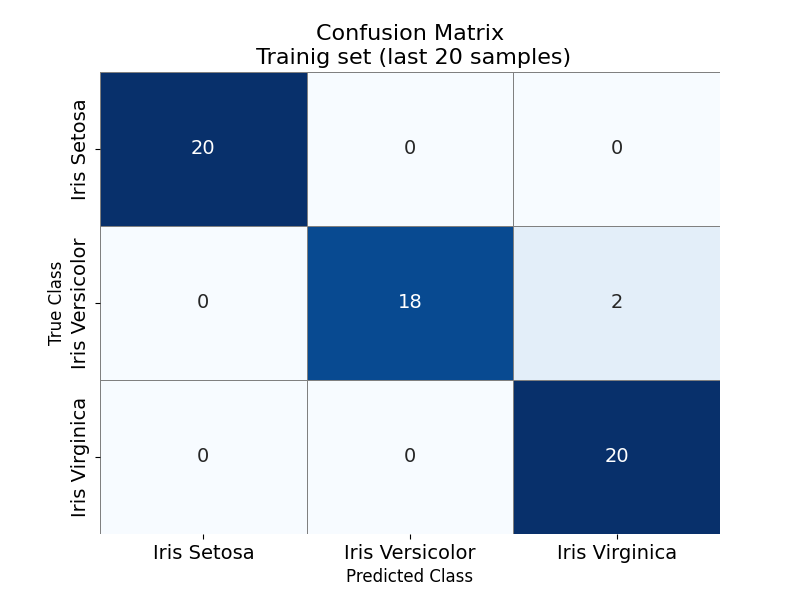
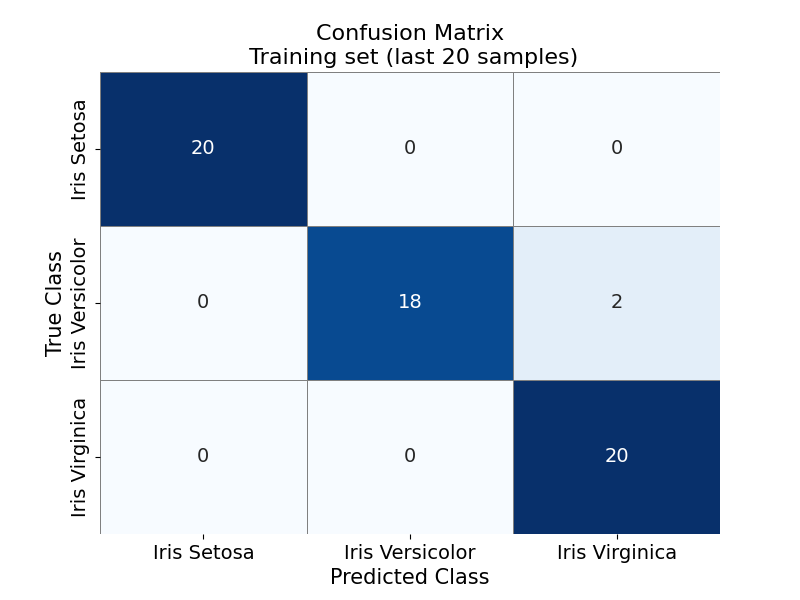
Halla

Changed region(s): [[0.3125, 0.06, 0.7188, 0.12], [0.4062, 0.93, 0.625, 0.99], [0.0312, 0.42, 0.0938, 0.6]]

diff --git a/iris_task.py b/iris_task.py
@@ -25,7 +25,7 @@ def read_file(txt_file):
         test_data = iris_data[30:]
 
         ###Analyzing histograms shows Sepal Width has most overlap. Therefore remove column 2 (1 in python)
-        #iris_data, training_data, test_data = np.delete(iris_data, 1, axis=1), np.delete(training_data, 1, axis=1), np.delete(test_data, 1, axis=1)
+        iris_data, training_data, test_data = np.delete(iris_data, [0,1,3], axis=1), np.delete(training_data, [0,1,3], axis=1), np.delete(test_data, [0,1,3], axis=1)
   
     return np.array(iris_data), np.array(training_data), np.array(test_data)
 
@@ -48,7 +48,7 @@ def g_k(W, x_k):
 
 #Initializing the weigth matrix. Each element is initially random between 0 and 0.01
 #5 columns with all features, 4 if one feature is removed (Task 2)
-W = np.random.rand(3, 5)*0.01
+W = np.random.rand(3, 2)*0.01
 
 #g_k er estimert verdi fra overnevnte funksjon
 #t_k er target vector. Så om input x_k er av class 1, vil t_k=[1, 0, 0]
@@ -57,7 +57,7 @@ def grad_MSE(W, training_data):
      
      #Initial values for MSE and its gradient matrix
      #5 columns with all features, 4 if one feature is removed (Task 2)
-     grad_MSE_matrix = np.zeros((3, 5))
+     grad_MSE_matrix = np.zeros((3, 2))
      MSE = 0
 
      #Checks which class the target output is
@@ -99,7 +99,7 @@ def training(W, training_data):
 
           #for j in range(4000):
 
-     while MSE > 8.5:
+     while MSE > 12.5:
 
           #Updating the W matrix
           W -= alpha * grad_MSE(W, training_data)[0]
@@ -139,7 +139,7 @@ def test(W, test_data):
 
      return pred
 
-
+#Change from 20 to 30 and 40 to 60 when using either test or training data. 
 def conf_matrix(test_data, pred):
 
      true = []
@@ -163,9 +163,11 @@ W_trained, MSE_list, iter_list = training(W, training_data)
 print("Finally trained W matrix:", W_trained)
 
 # #                       Test phase. Returns a 3x1-list with the number of classified samples for each class
+# Choose test_data or training data depending on which you want a confusion matrix
 pred = test(W_trained, test_data)
 
-# #                                           Confussion matrix
+# #                                           Confusion matrix
+# Choose test_data or training data depending on which you want a confusion matrix
 m, error = conf_matrix(test_data, pred)
 print("Confusion matrix:", m)
 print("Error rate:", error)
@@ -234,9 +236,9 @@ def plot_conf_matrix(cm):
      sns.heatmap(cm, annot=True, cmap="Blues", fmt="d", cbar=False, linewidths=0.5, linecolor='grey',  vmax=20 ,annot_kws={"fontsize": 14})
      plt.xticks(np.arange(3) + 0.5, ["Iris Setosa","Iris Versicolor","Iris Virginica"], fontsize=14)
      plt.yticks(np.arange(3) + 0.5, ["Iris Setosa","Iris Versicolor","Iris Virginica"], fontsize=14)
-     plt.xlabel("Predicted Class", fontsize=12)
-     plt.ylabel("True Class", fontsize=12)
-     plt.title("Confusion Matrix\n Trainig set (last 20 samples)", fontsize=16)
+     plt.xlabel("Predicted Class", fontsize=15)
+     plt.ylabel("True Class", fontsize=15)
+     plt.title("Confusion Matrix\n Testing set (last 20 samples)\n Excluding Sepal Width, Sepal length and Petal Width", fontsize=16)
      plt.show() 
 
 plot_conf_matrix(m) 
